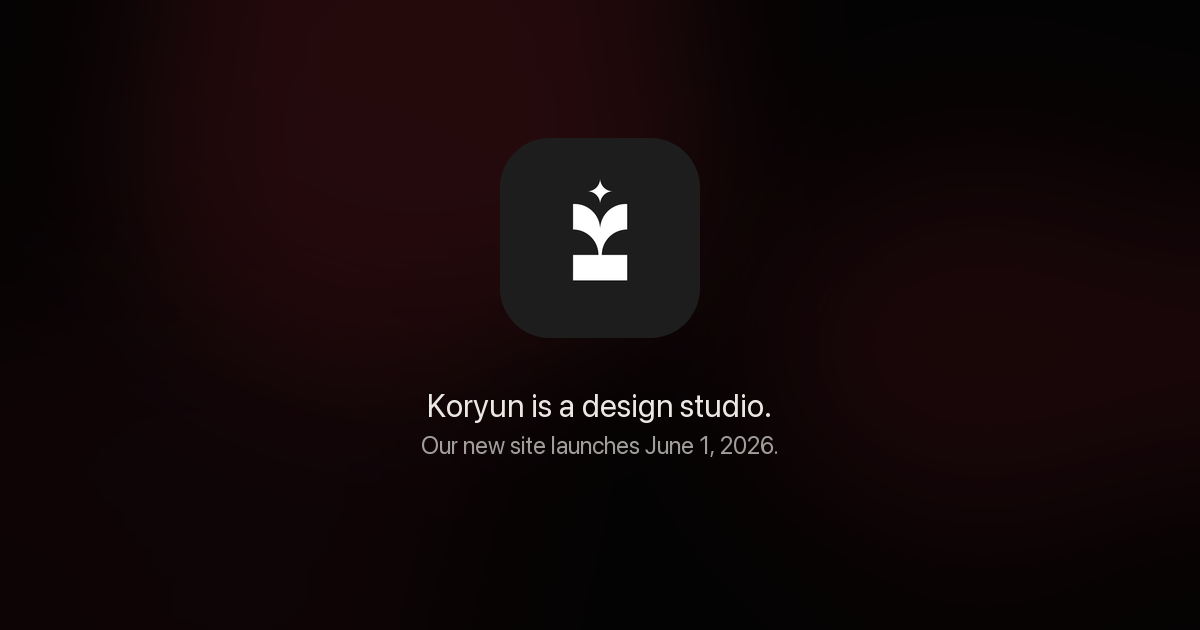
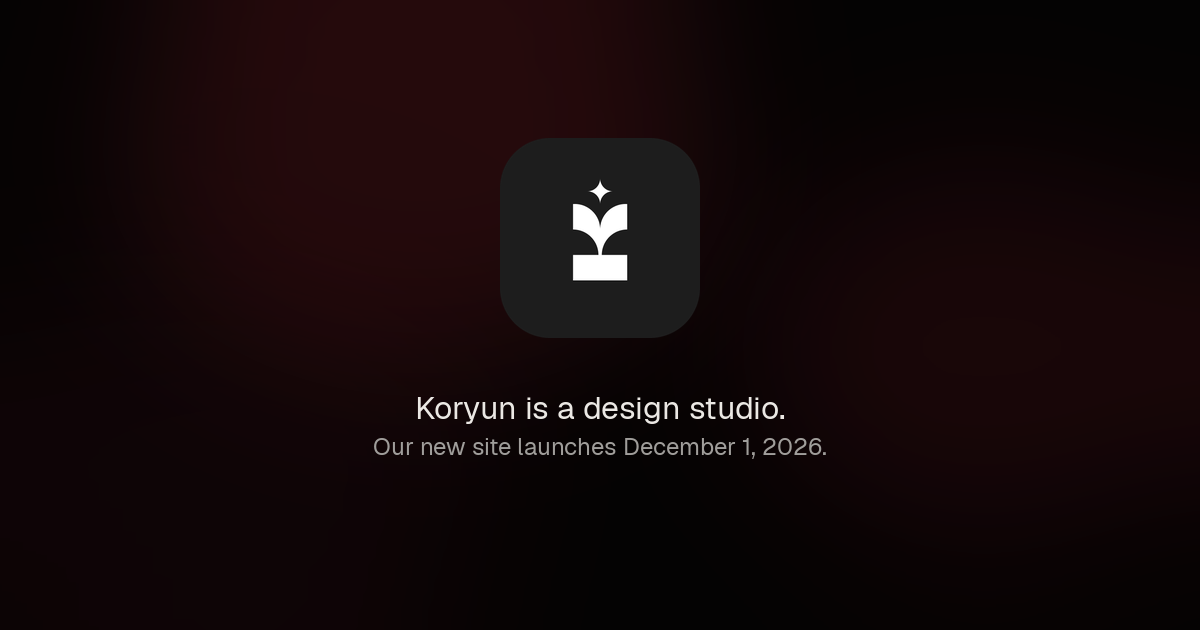
Update OG image launch date to December 1, 2026
Regenerate public/og-image.png with the new launch date so social
previews match the countdown. Add an OG_FONT env override to the
generator so it can run off macOS (rendered here with Geist Regular,
the site's own font).

Claude-Session: https://claude.ai/code/session_01RUFNNUQNmEy23pFmsg9jkj

Changed region(s): [[0.3083, 0.6333, 0.7092, 0.7238]]

diff --git a/scripts/generate-og-image.py b/scripts/generate-og-image.py
@@ -2,6 +2,7 @@
 """One-off generator for public/og-image.png (1200×630). Run: python3 scripts/generate-og-image.py"""
 from __future__ import annotations
 
+import os
 from pathlib import Path
 
 from PIL import Image, ImageDraw, ImageFilter, ImageFont
@@ -56,8 +57,10 @@ def main() -> None:
 
     # Typography
     line1 = "Koryun is a design studio."
-    line2 = "Our new site launches June 1, 2026."
+    line2 = "Our new site launches December 1, 2026."
+    # OG_FONT overrides the macOS defaults (e.g. a Geist-Regular.ttf on Linux)
     font_paths = [
+        *([os.environ["OG_FONT"]] if os.environ.get("OG_FONT") else []),
         "/System/Library/Fonts/Supplemental/SFNS.ttf",
         "/System/Library/Fonts/SFNS.ttf",
         "/System/Library/Fonts/Helvetica.ttc",
